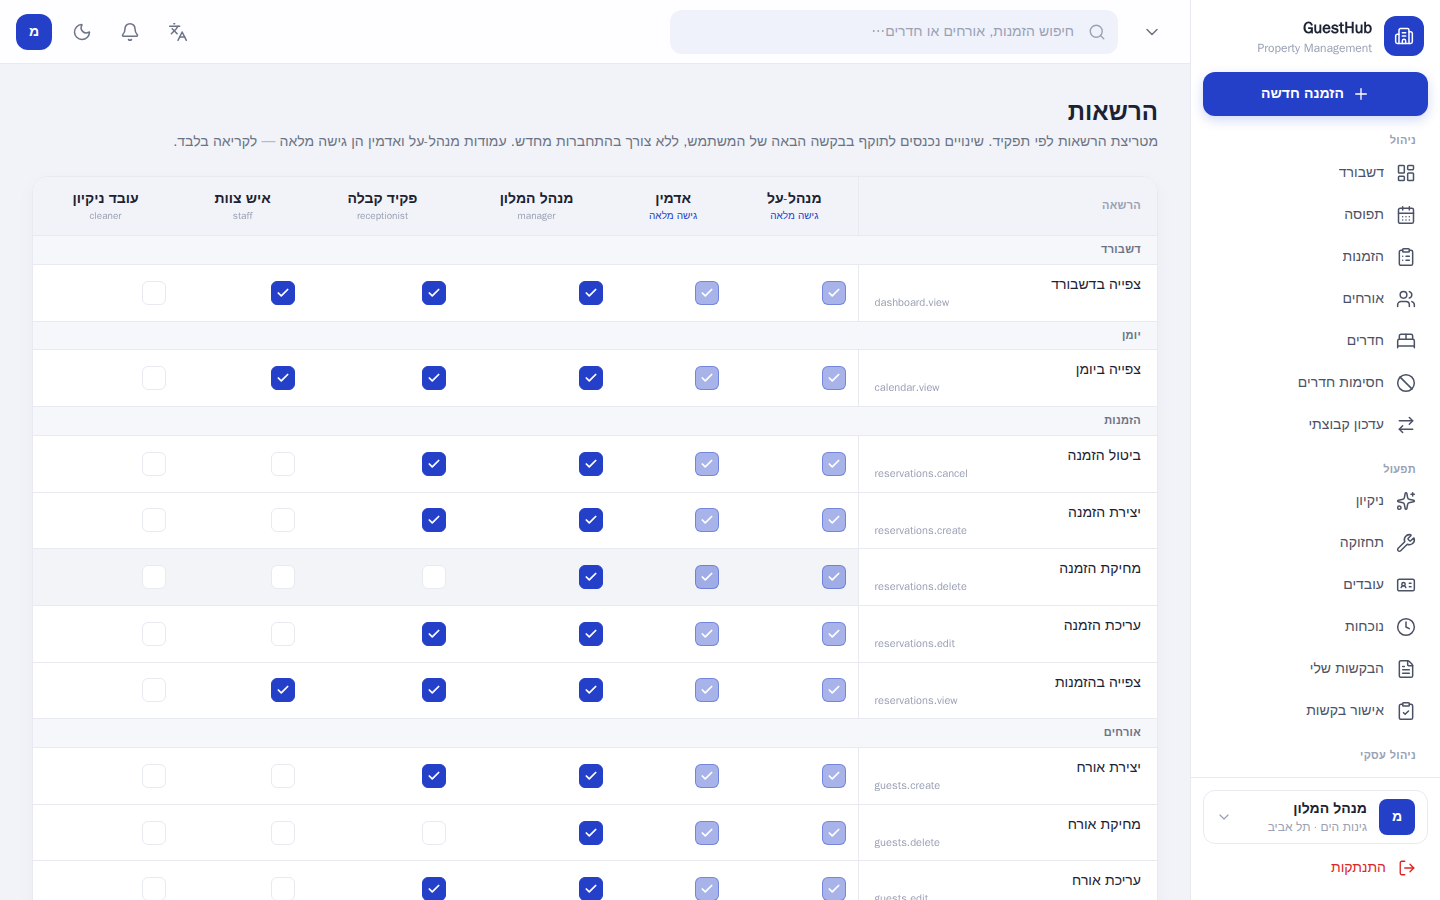
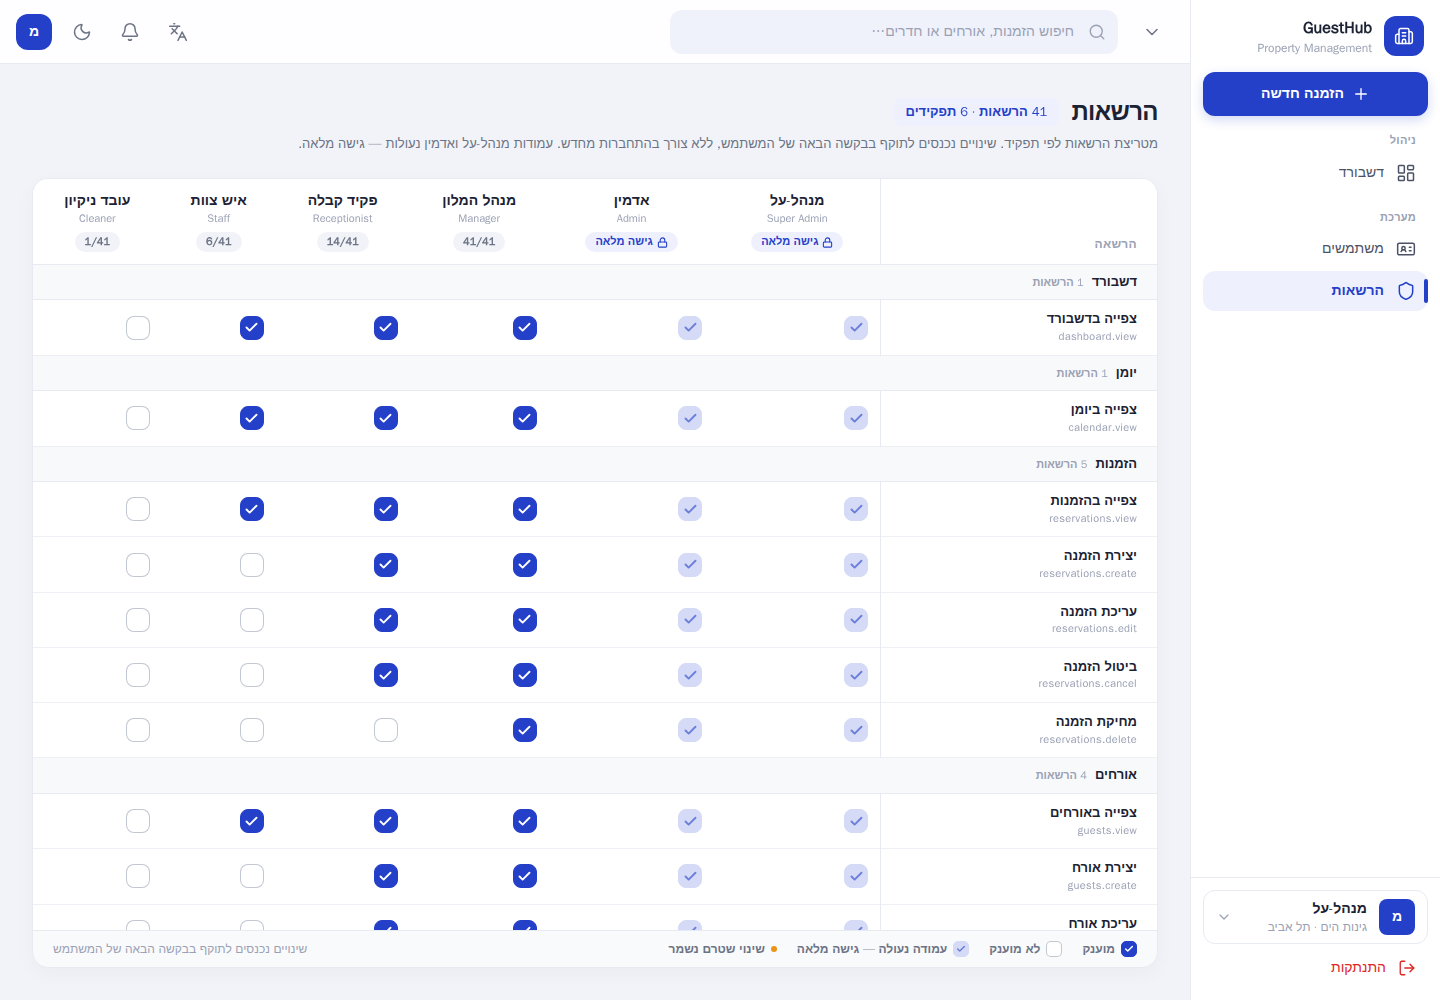
style(permissions): restyle /permissions matrix to the role-permissions reference
UI-only pass — toggle logic, server action, guards, and queries untouched.
Per ref/screens/role-permissions-management-screen.png (+ its HTML tokens,
which map 1:1 to the existing design tokens): page header gains the
counter chip (N הרשאות · N תפקידים); role columns get a Latin subtitle,
a live granted-count pill (e.g. 14/41) and a גישה מלאה lock chip on the
protected super_admin/admin columns; category bands show a permission
count; rows sort view→create→edit→…→delete like the reference;
checkboxes move to the reference spec (rounded-lg, primary checked,
primary-100 locked state, hover border, focus-visible ring, in-flight
orange dot); a pinned legend footer documents all four cell states. The
page is now a full-height flex column so the matrix scrolls internally —
sticky header/first-column actually stick and the legend stays visible.
Deliberately omitted from the reference: search box and collapse-all
(new filtering/interaction logic — out of scope for a restyle).

Verified live as admin: toggle on/off round-trip persists and reverts in
guesthub.role_permissions, counters update, protected cells disabled,
sticky header holds at 900px scroll. tsc/eslint/build/check-guards pass.
Proofs: ref/proof/phase-2-permissions{,-detail}.png.

diff --git a/src/app/(dashboard)/permissions/PermissionsMatrix.tsx b/src/app/(dashboard)/permissions/PermissionsMatrix.tsx
@@ -10,6 +10,20 @@ import { CATEGORY_LABEL, categoryIndex } from "./categories";
 
 const PROTECTED = new Set(["super_admin", "admin"]);
 
+// Reference scan order inside a category: view → my_tasks → create → … → delete.
+const VERB_ORDER = [
+  "view", "my_tasks", "create", "edit", "update", "manage",
+  "cancel", "refund", "bulk_update", "disable", "delete",
+];
+const verbRank = (key: string) => {
+  const i = VERB_ORDER.indexOf(key.split(".")[1] ?? "");
+  return i === -1 ? 99 : i;
+};
+
+// "super_admin" → "Super Admin" — the reference's Latin role subtitle.
+const roleSubtitle = (key: string) =>
+  key.split("_").map((w) => (w[0]?.toUpperCase() ?? "") + w.slice(1)).join(" ");
+
 export function PermissionsMatrix({
   roles,
   permissions,
@@ -34,10 +48,21 @@ export function PermissionsMatrix({
       if (!byCat.has(cat)) byCat.set(cat, []);
       byCat.get(cat)!.push(p);
     }
+    for (const perms of byCat.values())
+      perms.sort((a, b) => verbRank(a.key) - verbRank(b.key) || a.key.localeCompare(b.key));
     return [...byCat.entries()].sort(
       (a, b) => categoryIndex(a[0]) - categoryIndex(b[0]),
     );
   }, [permissions]);
+
+  const countByRole = useMemo(() => {
+    const counts = new Map<string, number>();
+    for (const key of granted) {
+      const roleId = key.slice(0, key.indexOf(":"));
+      counts.set(roleId, (counts.get(roleId) ?? 0) + 1);
+    }
+    return counts;
+  }, [granted]);
 
   function toggle(role: Role, perm: Permission, next: boolean) {
     const key = `${role.id}:${perm.id}`;
@@ -74,74 +99,129 @@ export function PermissionsMatrix({
   }
 
   return (
-    <div className="p-6 lg:p-8">
-      <div className="mb-6">
-        <h1 className="text-2xl font-extrabold text-ink">הרשאות</h1>
-        <p className="mt-1 text-sm text-muted">
+    <div className="flex h-full flex-col gap-6 p-6 lg:p-8">
+      <div className="flex flex-none flex-col gap-1.5">
+        <div className="flex flex-wrap items-center gap-3">
+          <h1 className="text-2xl font-extrabold tracking-tight text-ink">הרשאות</h1>
+          <span className="rounded-lg bg-primary-050 px-3 py-1 text-[13px] font-bold text-primary">
+            {permissions.length} הרשאות · {roles.length} תפקידים
+          </span>
+        </div>
+        <p className="text-[13px] font-medium text-muted">
           מטריצת הרשאות לפי תפקיד. שינויים נכנסים לתוקף בבקשה הבאה של המשתמש, ללא צורך
-          בהתחברות מחדש. עמודות מנהל-על ואדמין הן גישה מלאה — לקריאה בלבד.
+          בהתחברות מחדש. עמודות מנהל-על ואדמין נעולות — גישה מלאה.
         </p>
       </div>
 
-      <div className="overflow-auto rounded-2xl border border-line bg-surface shadow-card">
-        <table className="w-full min-w-[720px] border-collapse text-sm">
-          <thead>
-            <tr>
-              <th className="sticky start-0 top-0 z-30 border-b border-e border-line bg-appbg px-4 py-3 text-start text-[11px] font-bold tracking-wide text-faint">
-                הרשאה
-              </th>
-              {roles.map((role) => (
-                <th
-                  key={role.id}
-                  className="sticky top-0 z-20 border-b border-line bg-appbg px-3 py-3 text-center"
-                >
-                  <div className="text-sm font-bold text-ink">{role.name}</div>
-                  {PROTECTED.has(role.key) ? (
-                    <div className="text-[10px] font-medium text-primary">גישה מלאה</div>
-                  ) : (
-                    <div className="text-[10px] text-faint">{role.key}</div>
-                  )}
+      <div className="flex min-h-0 flex-1 flex-col overflow-hidden rounded-2xl border border-line bg-surface shadow-card">
+        <div className="thin-scroll min-h-0 flex-1 overflow-auto">
+          <table className="w-full min-w-[860px] border-collapse text-sm">
+            <thead>
+              <tr>
+                <th className="sticky start-0 top-0 z-30 border-b border-e border-line bg-surface px-5 py-3 text-start align-bottom text-xs font-bold tracking-wide text-faint">
+                  הרשאה
                 </th>
-              ))}
-            </tr>
-          </thead>
-          <tbody>
-            {groups.map(([cat, perms]) => (
-              <CategoryGroup key={cat} label={CATEGORY_LABEL[cat] ?? cat} colSpan={roles.length + 1}>
-                {perms.map((perm) => (
-                  <tr key={perm.id} className="border-b border-line last:border-0 hover:bg-hover">
-                    <th className="sticky start-0 z-10 border-e border-line bg-surface px-4 py-2.5 text-start font-normal">
-                      <div className="font-medium text-ink">{perm.description ?? perm.key}</div>
-                      <div dir="ltr" className="text-start text-[11px] text-faint">
-                        {perm.key}
+                {roles.map((role) => (
+                  <th
+                    key={role.id}
+                    className="sticky top-0 z-20 border-b border-line bg-surface px-3 py-3 text-center"
+                  >
+                    <div className="flex flex-col items-center gap-1.5">
+                      <div>
+                        <div className="text-sm font-bold text-ink">{role.name}</div>
+                        <div className="text-[11px] font-medium text-faint">
+                          {roleSubtitle(role.key)}
+                        </div>
                       </div>
-                    </th>
-                    {roles.map((role) => {
-                      const key = `${role.id}:${role.key}:${perm.id}`;
-                      const isProtected = PROTECTED.has(role.key);
-                      const on = isProtected || granted.has(`${role.id}:${perm.id}`);
-                      const editable = canUpdate && !isProtected;
-                      const busy = pending.has(`${role.id}:${perm.id}`);
-                      return (
-                        <td key={key} className="px-3 py-2.5 text-center">
-                          <Cell
-                            on={on}
-                            editable={editable}
-                            protectedCol={isProtected}
-                            busy={busy}
-                            roleKey={role.key}
-                            permKey={perm.key}
-                            onToggle={() => toggle(role, perm, !granted.has(`${role.id}:${perm.id}`))}
-                          />
-                        </td>
-                      );
-                    })}
-                  </tr>
+                      {PROTECTED.has(role.key) ? (
+                        <span className="inline-flex items-center gap-1 rounded-full bg-primary-050 px-2.5 py-0.5 text-[11px] font-bold text-primary">
+                          <Icon name="lock" size={11} strokeWidth={2.4} />
+                          גישה מלאה
+                        </span>
+                      ) : (
+                        <span className="rounded-full bg-appbg px-2.5 py-0.5 text-[11px] font-extrabold tabular-nums text-muted">
+                          {countByRole.get(role.id) ?? 0}/{permissions.length}
+                        </span>
+                      )}
+                    </div>
+                  </th>
                 ))}
-              </CategoryGroup>
-            ))}
-          </tbody>
-        </table>
+              </tr>
+            </thead>
+            <tbody>
+              {groups.map(([cat, perms]) => (
+                <CategoryGroup
+                  key={cat}
+                  label={CATEGORY_LABEL[cat] ?? cat}
+                  count={perms.length}
+                  colSpan={roles.length + 1}
+                >
+                  {perms.map((perm) => (
+                    <tr
+                      key={perm.id}
+                      className="group border-b border-line/70 last:border-0 hover:bg-hover"
+                    >
+                      <th className="sticky start-0 z-10 border-e border-line bg-surface px-5 py-2.5 text-start font-normal transition-colors group-hover:bg-hover">
+                        <div className="text-[13px] font-bold text-ink">
+                          {perm.description ?? perm.key}
+                        </div>
+                        <div dir="ltr" className="text-end text-[11px] font-medium tracking-wide text-faint">
+                          {perm.key}
+                        </div>
+                      </th>
+                      {roles.map((role) => {
+                        const key = `${role.id}:${role.key}:${perm.id}`;
+                        const isProtected = PROTECTED.has(role.key);
+                        const on = isProtected || granted.has(`${role.id}:${perm.id}`);
+                        const editable = canUpdate && !isProtected;
+                        const busy = pending.has(`${role.id}:${perm.id}`);
+                        return (
+                          <td key={key} className="px-3 py-2.5 text-center">
+                            <Cell
+                              on={on}
+                              editable={editable}
+                              protectedCol={isProtected}
+                              busy={busy}
+                              roleKey={role.key}
+                              permKey={perm.key}
+                              onToggle={() => toggle(role, perm, !granted.has(`${role.id}:${perm.id}`))}
+                            />
+                          </td>
+                        );
+                      })}
+                    </tr>
+                  ))}
+                </CategoryGroup>
+              ))}
+            </tbody>
+          </table>
+        </div>
+
+        <div className="flex flex-none flex-wrap items-center gap-x-5 gap-y-2 border-t border-line bg-appbg/40 px-5 py-2.5 text-xs font-semibold text-muted">
+          <span className="inline-flex items-center gap-1.5">
+            <span className="grid h-4 w-4 place-items-center rounded-[5px] border-[1.5px] border-primary bg-primary text-white">
+              <Icon name="check" size={10} strokeWidth={3.5} />
+            </span>
+            מוענק
+          </span>
+          <span className="inline-flex items-center gap-1.5">
+            <span className="h-4 w-4 rounded-[5px] border-[1.5px] border-faint/60 bg-surface" />
+            לא מוענק
+          </span>
+          <span className="inline-flex items-center gap-1.5">
+            <span className="grid h-4 w-4 place-items-center rounded-[5px] border-[1.5px] border-primary-100 bg-primary-100 text-primary/60">
+              <Icon name="check" size={10} strokeWidth={3.5} />
+            </span>
+            עמודה נעולה — גישה מלאה
+          </span>
+          <span className="inline-flex items-center gap-1.5">
+            <span className="h-1.5 w-1.5 rounded-full bg-status-warning" />
+            שינוי שטרם נשמר
+          </span>
+          <span className="ms-auto font-medium text-faint">
+            שינויים נכנסים לתוקף בבקשה הבאה של המשתמש
+          </span>
+        </div>
       </div>
     </div>
   );
@@ -149,21 +229,23 @@ export function PermissionsMatrix({
 
 function CategoryGroup({
   label,
+  count,
   colSpan,
   children,
 }: {
   label: string;
+  count: number;
   colSpan: number;
   children: React.ReactNode;
 }) {
   return (
     <>
       <tr>
-        <td
-          colSpan={colSpan}
-          className="border-b border-line bg-appbg/70 px-4 py-1.5 text-[11px] font-bold tracking-wide text-muted"
-        >
-          {label}
+        <td colSpan={colSpan} className="border-b border-line bg-appbg/50 px-5 py-2">
+          <div className="flex items-baseline gap-2">
+            <span className="text-[13px] font-extrabold text-ink">{label}</span>
+            <span className="text-[11px] font-bold text-faint">{count} הרשאות</span>
+          </div>
         </td>
       </tr>
       {children}
@@ -198,17 +280,20 @@ function Cell({
       disabled={!editable || busy}
       onClick={onToggle}
       title={protectedCol ? "גישה מלאה — לקריאה בלבד" : editable ? "" : "אין הרשאת עריכה"}
-      className={`grid h-6 w-6 place-items-center rounded-md border transition-colors ${
+      className={`relative grid h-6 w-6 place-items-center rounded-lg border-[1.5px] transition-colors focus-visible:outline-none focus-visible:ring-2 focus-visible:ring-primary/40 focus-visible:ring-offset-1 ${
         on
           ? protectedCol
-            ? "border-primary/40 bg-primary/40 text-white"
+            ? "border-primary-100 bg-primary-100 text-primary/60"
             : "border-primary bg-primary text-white"
-          : "border-line bg-surface"
+          : "border-faint/60 bg-surface"
       } ${editable && !busy ? "cursor-pointer hover:border-primary" : "cursor-default"} ${
-        busy ? "opacity-50" : ""
+        busy ? "opacity-70" : ""
       }`}
     >
-      {on ? <Icon name="check" size={14} strokeWidth={3} /> : null}
+      {on ? <Icon name="check" size={15} strokeWidth={3} /> : null}
+      {busy ? (
+        <span className="absolute -end-1 -top-1 h-1.5 w-1.5 rounded-full bg-status-warning" />
+      ) : null}
     </button>
   );
 }